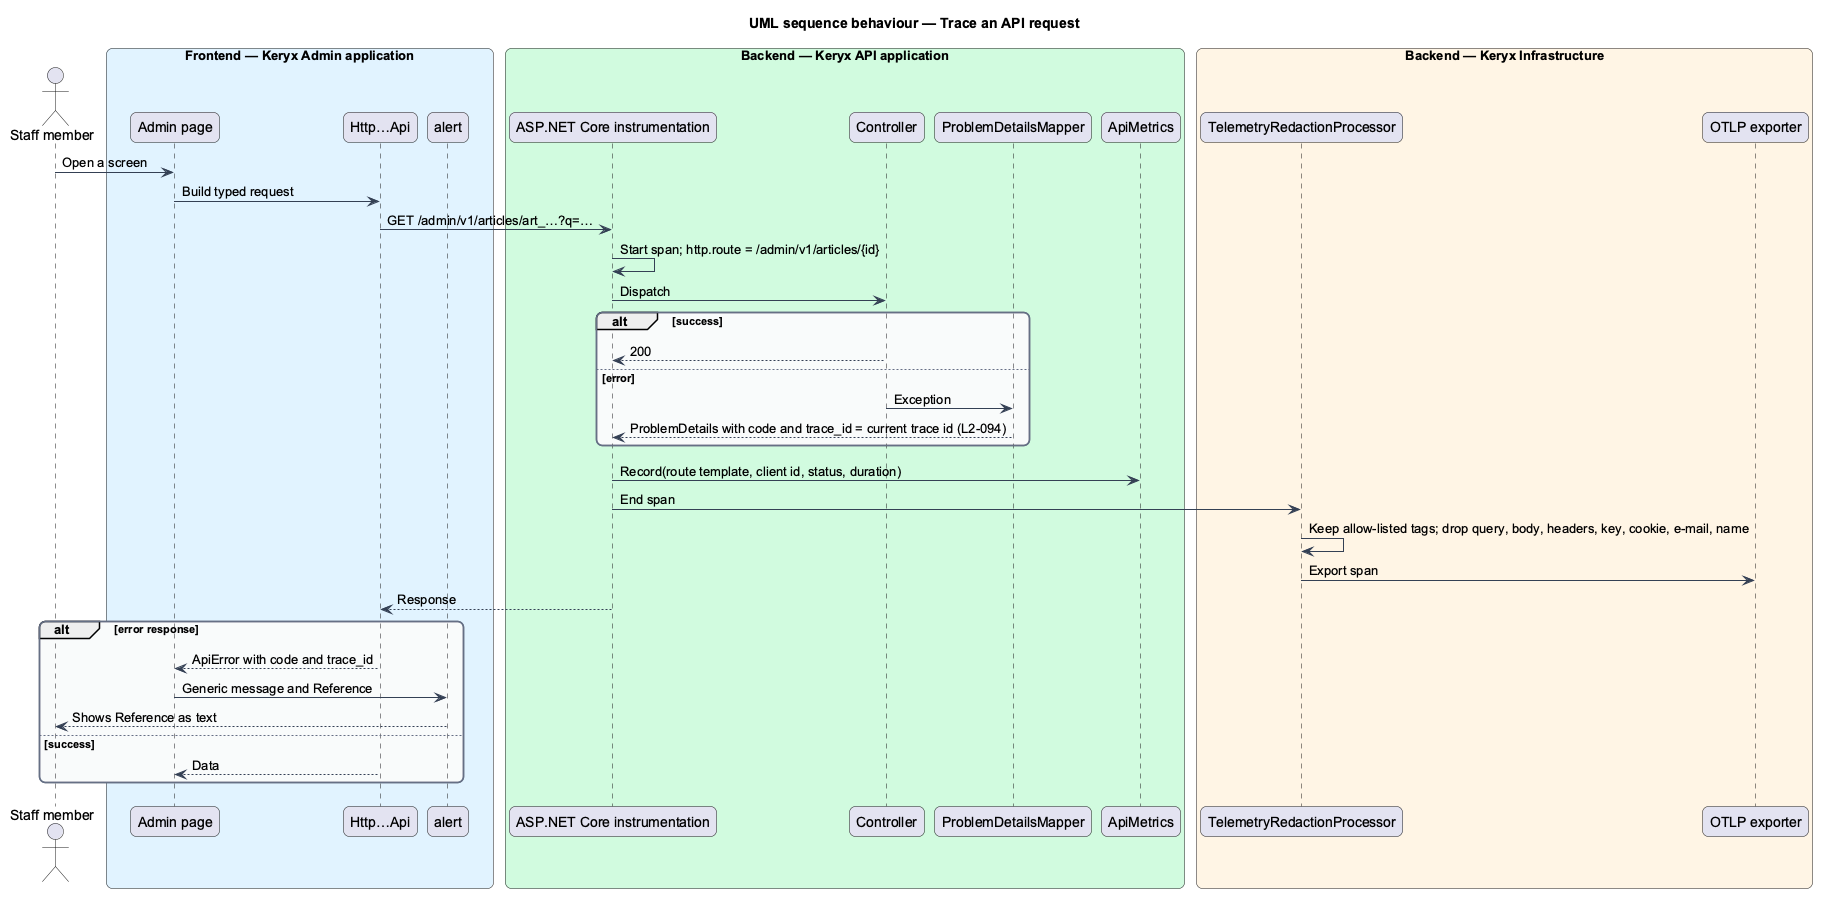
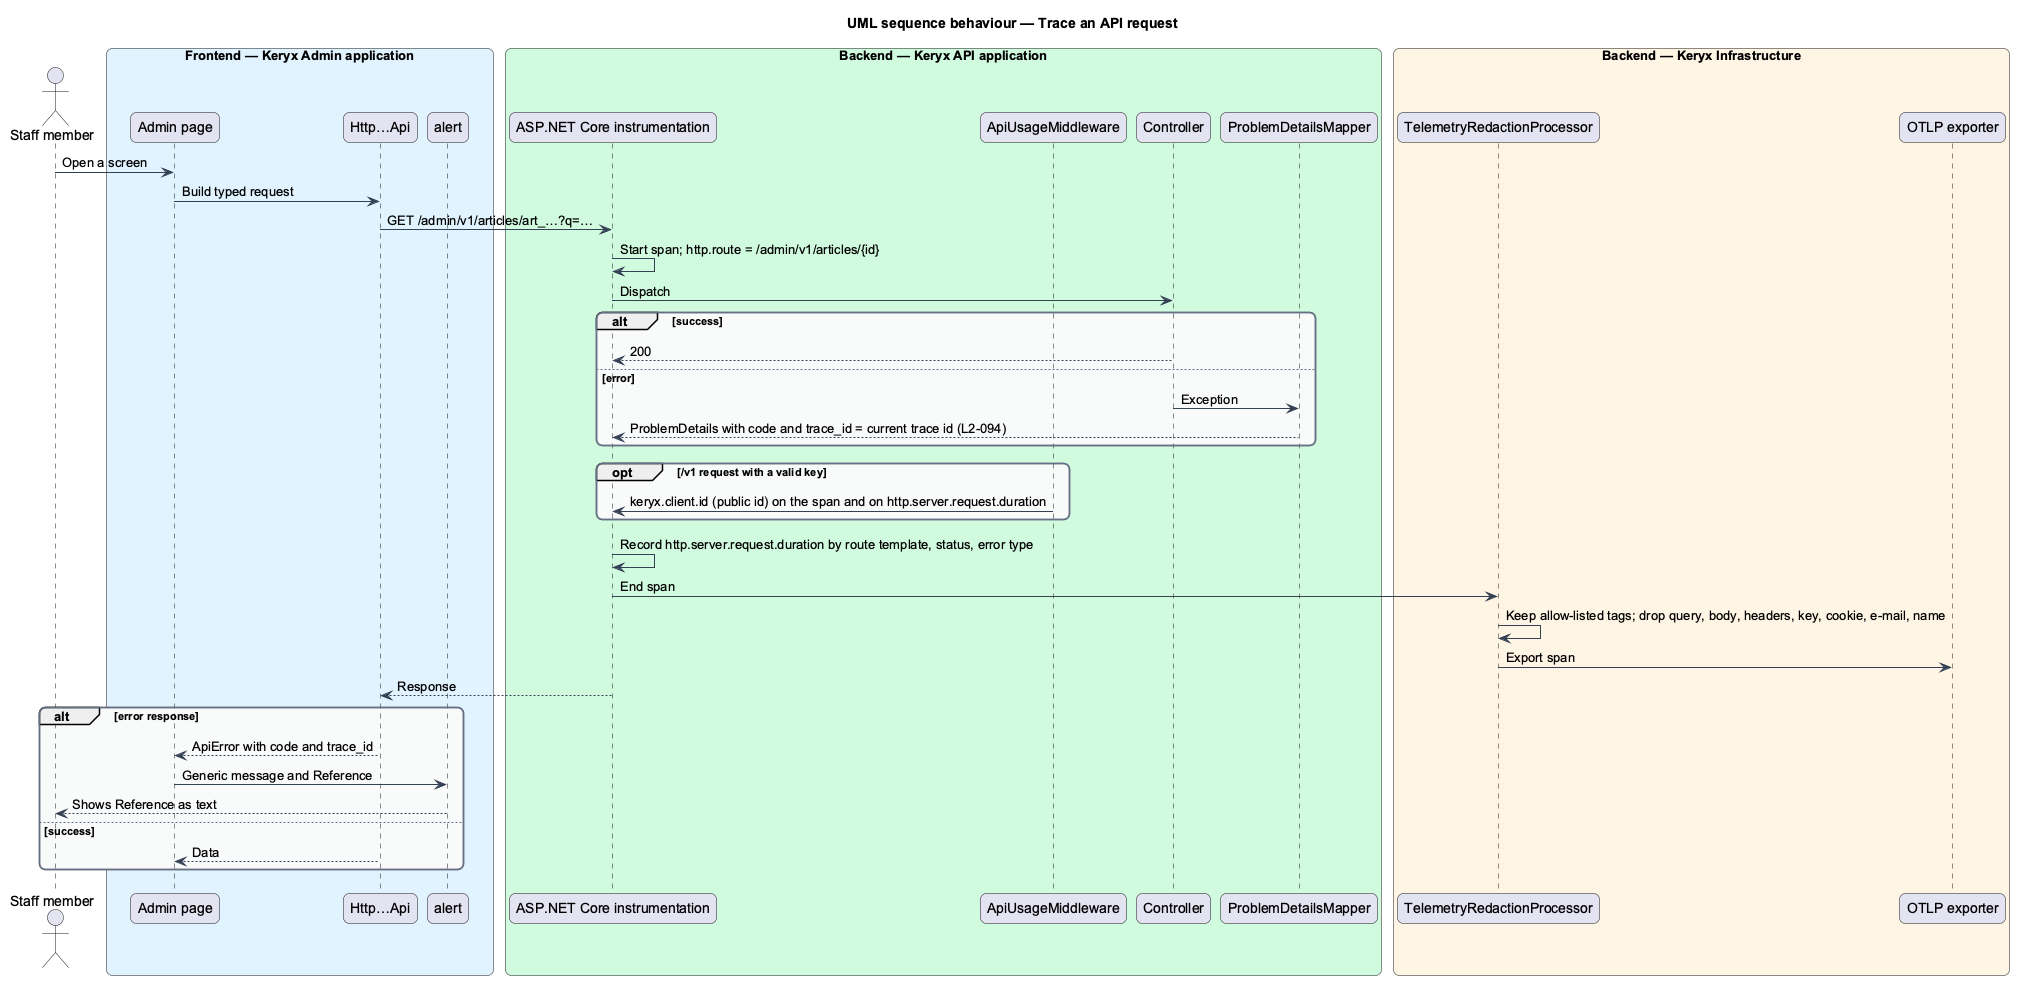
Measure and trace consumer requests by route template and client
Each /v1 request with a valid key tags ASP.NET Core's request duration
measurement and its span with the client's public id, so request count,
latency and errors are seen by route template and client. The key and
its prefix never appear.

diff --git a/backend/tests/Keryx.Api.Tests/Telemetry/ConsumerMetricsTests.cs b/backend/tests/Keryx.Api.Tests/Telemetry/ConsumerMetricsTests.cs
@@ -1,0 +1,106 @@
+using System.Diagnostics;
+using System.Diagnostics.Metrics;
+using System.Net;
+using Keryx.Api.Tests.Fakes;
+using Keryx.Api.Tests.Session;
+using Keryx.Domain.Clients;
+using Microsoft.EntityFrameworkCore;
+using Microsoft.Extensions.DependencyInjection;
+using OpenTelemetry.Trace;
+
+using static Keryx.Api.Tests.Consumer.ConsumerApi;
+
+namespace Keryx.Api.Tests.Telemetry;
+
+// Acceptance Test
+// Traces to: L2-094 AC4
+// Description: The consumer API's requests are measured by route template and client id: how
+// many, how long, and with what status or error type. The client is named by its public id,
+// never by its key or key prefix, on the request's measurement and on its span.
+public sealed class ConsumerMetricsTests
+{
+    private const string Duration = "http.server.request.duration";
+
+    [Fact]
+    public async Task Given_two_clients_When_they_call_the_consumer_API_Then_each_request_is_measured_and_traced_by_route_template_and_client()
+    {
+        using var factory = new Factory();
+        await StaffClient.SeedAsync(factory);
+        var first = await KeyAsync(factory, ApiScopes.ArticlesRead);
+        var second = await KeyAsync(factory, ApiScopes.ArticlesRead);
+        var (firstId, secondId) = await ClientIdsAsync(factory);
+        using var measured = new HostMeasurements(factory.Services.GetRequiredService<IMeterFactory>(), Duration);
+
+        using (var client = Client(factory, first))
+        {
+            Assert.Equal(HttpStatusCode.OK, await StatusAsync(client, "/v1/articles"));
+            Assert.Equal(HttpStatusCode.OK, await StatusAsync(client, "/v1/articles?limit=5"));
+        }
+
+        using (var client = Client(factory, second))
+        {
+            Assert.Equal(HttpStatusCode.NotFound, await StatusAsync(client, "/v1/articles/art_abcdefghijkl"));
+        }
+
+        using (var anonymous = Client(factory, null))
+        {
+            Assert.Equal(HttpStatusCode.Unauthorized, await StatusAsync(anonymous, "/v1/articles"));
+        }
+
+        // The measurement is recorded as the request ends, after the response: await it.
+        var consumer = await EventuallyAsync(() => measured.Of(Duration).Where(request => request.Tags.GetValueOrDefault("http.route", "").StartsWith("v1/", StringComparison.Ordinal)).ToList(), 4);
+        Assert.Equal(
+            [
+                ("200", "v1/articles", firstId),
+                ("200", "v1/articles", firstId),
+                ("401", "v1/articles", "none"),
+                ("404", "v1/articles/{id}", secondId),
+            ],
+            consumer.Select(request => (request.Tags["http.response.status_code"], request.Tags["http.route"], request.Tags.GetValueOrDefault("keryx.client.id", "none")))
+                .Order());
+        Assert.DoesNotContain(consumer, request => request.Tags.Values.Any(value => value.Contains(first[..12], StringComparison.Ordinal) || value.Contains(second[..12], StringComparison.Ordinal)));
+
+        // Spans are exported from every host in this process, so this test's are told by its clients.
+        var spans = factory.Spans.Snapshot()
+            .Where(span => span.Kind == ActivityKind.Server && span.GetTagItem("keryx.client.id") is string id && (id == firstId || id == secondId))
+            .ToList();
+        Assert.Equal(
+            [("v1/articles", firstId), ("v1/articles", firstId), ("v1/articles/{id}", secondId)],
+            spans.Select(span => ($"{span.GetTagItem("http.route")}", $"{span.GetTagItem("keryx.client.id")}")).Order());
+    }
+
+    private static async Task<List<HostMeasurements.Measured>> EventuallyAsync(Func<List<HostMeasurements.Measured>> read, int count)
+    {
+        using var timeout = new CancellationTokenSource(TimeSpan.FromSeconds(10));
+        var seen = read();
+        while (seen.Count < count)
+        {
+            Assert.False(timeout.IsCancellationRequested, $"Only {seen.Count} of {count} consumer requests were measured.");
+            await Task.Yield();
+            seen = read();
+        }
+
+        return seen;
+    }
+
+    private static async Task<(string First, string Second)> ClientIdsAsync(ApiFactory factory)
+    {
+        await using var store = TestStore.Open(factory.Store);
+        var ids = await store.ApiClients.OrderBy(client => client.Id).Select(client => client.PublicId).ToListAsync(TestContext.Current.CancellationToken);
+        return (ids[0], ids[1]);
+    }
+
+    private static async Task<HttpStatusCode> StatusAsync(HttpClient client, string path)
+    {
+        using var response = await client.GetAsync(new Uri(path, UriKind.Relative), TestContext.Current.CancellationToken);
+        return response.StatusCode;
+    }
+
+    private sealed class Factory : ApiFactory
+    {
+        public ExportedCollection<Activity> Spans { get; } = new();
+
+        protected override void ConfigureServices(IServiceCollection services) =>
+            services.ConfigureOpenTelemetryTracerProvider(tracing => tracing.AddInMemoryExporter(Spans));
+    }
+}

diff --git a/backend/src/Keryx.Api/Consumer/ApiUsageMiddleware.cs b/backend/src/Keryx.Api/Consumer/ApiUsageMiddleware.cs
@@ -1,5 +1,7 @@
+using System.Diagnostics;
 using Keryx.Application.Clients;
 using MediatR;
+using Microsoft.AspNetCore.Http.Features;
 
 namespace Keryx.Api.Consumer;
 
@@ -7,10 +9,14 @@ namespace Keryx.Api.Consumer;
 /// Counts each consumer request (`/v1`) by the client its key named, once the response is final:
 /// it sits outside the exception handler, so a failure is counted as the 500 it became. A request
 /// with no client, such as one with no valid key, is not counted. Only the client, the status,
-/// the time taken and when it ended are passed on (L2-037).
+/// the time taken and when it ended are passed on (L2-037). The request's measurement
+/// (<c>http.server.request.duration</c>) and its span are tagged with the client's public id, so
+/// requests, latency and errors are seen by route template and client (L2-094 AC4).
 /// </summary>
 internal sealed class ApiUsageMiddleware(RequestDelegate next, TimeProvider time)
 {
+    internal const string ClientIdTag = "keryx.client.id";
+
     public async Task InvokeAsync(HttpContext context)
     {
         if (!context.Request.Path.StartsWithSegments("/v1"))
@@ -26,6 +32,9 @@ internal sealed class ApiUsageMiddleware(RequestDelegate next, TimeProvider time
         {
             return;
         }
+
+        context.Features.Get<IHttpMetricsTagsFeature>()?.Tags.Add(new(ClientIdTag, clientId));
+        Activity.Current?.SetTag(ClientIdTag, clientId);
 
         var sender = context.RequestServices.GetRequiredService<ISender>();
         await sender.Send(new RecordApiUsage(clientId, context.Response.StatusCode, time.GetElapsedTime(started), time.GetUtcNow()), CancellationToken.None)

diff --git a/backend/src/Keryx.Infrastructure/Telemetry/TelemetryRedactionProcessor.cs b/backend/src/Keryx.Infrastructure/Telemetry/TelemetryRedactionProcessor.cs
@@ -14,7 +14,7 @@ namespace Keryx.Infrastructure.Telemetry;
 internal sealed class TelemetryRedactionProcessor : BaseProcessor<Activity>
 {
     public static readonly FrozenSet<string> AllowedTags = FrozenSet.ToFrozenSet(
-        ["error.type", "http.request.method", "http.response.status_code", "http.route", "keryx.run.id", "keryx.source.id", "keryx.stage"],
+        ["error.type", "http.request.method", "http.response.status_code", "http.route", "keryx.client.id", "keryx.run.id", "keryx.source.id", "keryx.stage"],
         StringComparer.Ordinal);
 
     public override void OnEnd(Activity data)

diff --git a/docs/detailed-designs/operations/observe-the-system/README.md b/docs/detailed-designs/operations/observe-the-system/README.md
@@ -60,11 +60,16 @@ as `trace_id`.
 **API (`Keryx.Api`)**
 
 - **ASP.NET Core instrumentation** — records `http.route` from the endpoint's route template,
-  method, status and duration. `Filter` and `EnrichWithHttpRequest` add `keryx.client.id` (the
-  client's public id, never its key or prefix) for `/v1`.
-- **`ApiMetrics`** — meter `Keryx.Api`: counter `keryx.api.requests`, histogram
-  `keryx.api.request.duration` (milliseconds) and counter `keryx.api.errors`, each tagged by
-  route template and client id.
+  method, status and duration, on the span and on the histogram `http.server.request.duration`
+  (`s`). Its count is the number of requests, its buckets are the latency, and its
+  `http.response.status_code` and `error.type` tags are the errors.
+- **Client on consumer requests** — `ApiUsageMiddleware`, which already reads the authenticated
+  client of each `/v1` request, adds `keryx.client.id` (the client's public id, never its key or
+  prefix) to the request's measurement through `IHttpMetricsTagsFeature`, and to its span. A
+  request with no valid key carries no client. The design first had a separate `ApiMetrics`
+  meter with `keryx.api.requests`, `keryx.api.request.duration` and `keryx.api.errors`. That would
+  repeat the framework's own instrument under other names. Enriching it is the way ASP.NET Core
+  documents, and it gives the same three measures by route template and client.
 - **`ProblemDetailsMapper`** — adds `trace_id` from `Activity.Current.TraceId` to every
   ProblemDetails body (`L2-031`).
 

diff --git a/docs/journeys.md b/docs/journeys.md
@@ -28,4 +28,4 @@ The Settings percentage includes completed slices on `journey/18-change-settings
 | 22 | Staff exports articles | Staff download filtered articles as CSV | 2 | 100 |
 | 23 | Worker applies retention | Records past the retention period are deleted | 2 | 100 |
 | 24 | Staff actions are audited | Every state-changing staff action is recorded | 2 | 100 |
-| 25 | Operator observes the system | Traces, metrics and logs exported without private data | 2 | 70 |
+| 25 | Operator observes the system | Traces, metrics and logs exported without private data | 2 | 85 |
